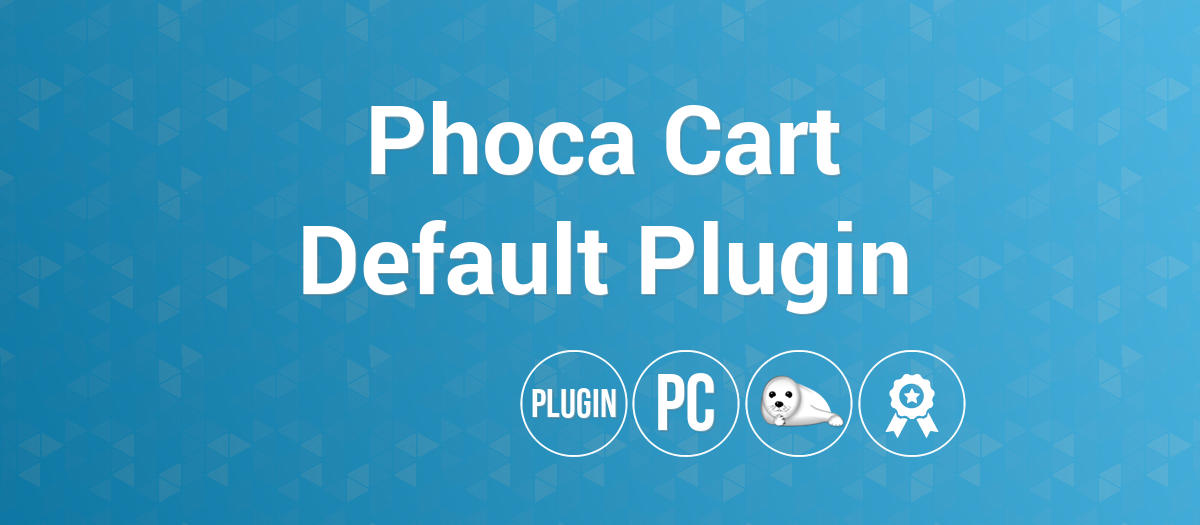
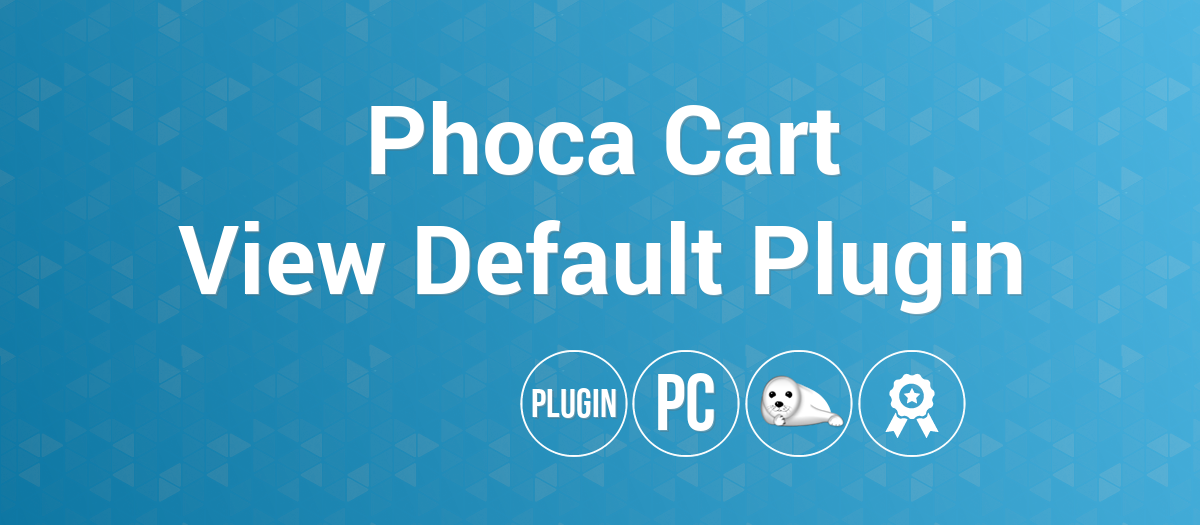
3.1.9
3.1.9

Changed region(s): [[0.1233, 0.3962, 0.8633, 0.6095]]

diff --git a/default.php b/default.php
@@ -57,28 +57,28 @@ class plgPCVDefault extends JPlugin
 		return $tab;
 	}
 
-	public function PCVonCheckoutAfterCart($context, $access, &$params) {
+	public function PCVonCheckoutAfterCart($context, $access, &$params, $total) {
 	}
 
-	public function PCVonCheckoutAfterLogin($context, $access, &$params) {
+	public function PCVonCheckoutAfterLogin($context, $access, &$params, $total) {
 	}
 
-	public function PCVonCheckoutAfterAddress($context, $access, &$params) {
+	public function PCVonCheckoutAfterAddress($context, $access, &$params, $total) {
 	}
 
-	public function PCVonCheckoutAfterShipping($context, $access, &$params) {
+	public function PCVonCheckoutAfterShipping($context, $access, &$params, $total) {
 	}
 
-	public function PCVonCheckoutAfterPayment($context, $access, &$params) {
+	public function PCVonCheckoutAfterPayment($context, $access, &$params, $total) {
 	}
 
-	public function PCVonCheckoutAfterConfirm($context, $access, &$params) {
+	public function PCVonCheckoutAfterConfirm($context, $access, &$params, $total) {
 	}
 
-	
+
 	/*
 	public function PCVonPopupAddToCartAfterHeader($context, $product, $products, $total) {
-		
+
 	} */
 
 }

diff --git a/README.md b/README.md
@@ -2,9 +2,9 @@
 
 
 
-![Phoca Cart Default Plugin](https://github.com/PhocaCz/PhocaCartDefaultPlugin/blob/master/default.png)
+![Phoca Cart View Default Plugin](https://github.com/PhocaCz/PhocaCartDefaultPlugin/blob/master/default.png)
 
-# Phoca Cart Default Plugin
+# Phoca Cart View Default Plugin
 
 
 
@@ -14,7 +14,7 @@ Phoca Cart View - Default Plugin - plugin view method for Phoca Cart component. 
 
 ## Project page
 
-[Phoca Cart Default Plugin](https://www.phoca.cz/phocacart-extensions/2-plugins/31-view-default-plugin)
+[Phoca Cart View Default Plugin](https://www.phoca.cz/phocacart-extensions/2-plugins/31-view-default-plugin)
 
 [Phoca Cart Info Page](https://www.phoca.cz/project/phocacart-joomla-ecommerce)
 
@@ -54,7 +54,7 @@ Phoca Cart View - Default Plugin - plugin view method for Phoca Cart component. 
 
 ## Version
 
-3.1.8
+3.1.9
 
 
 
